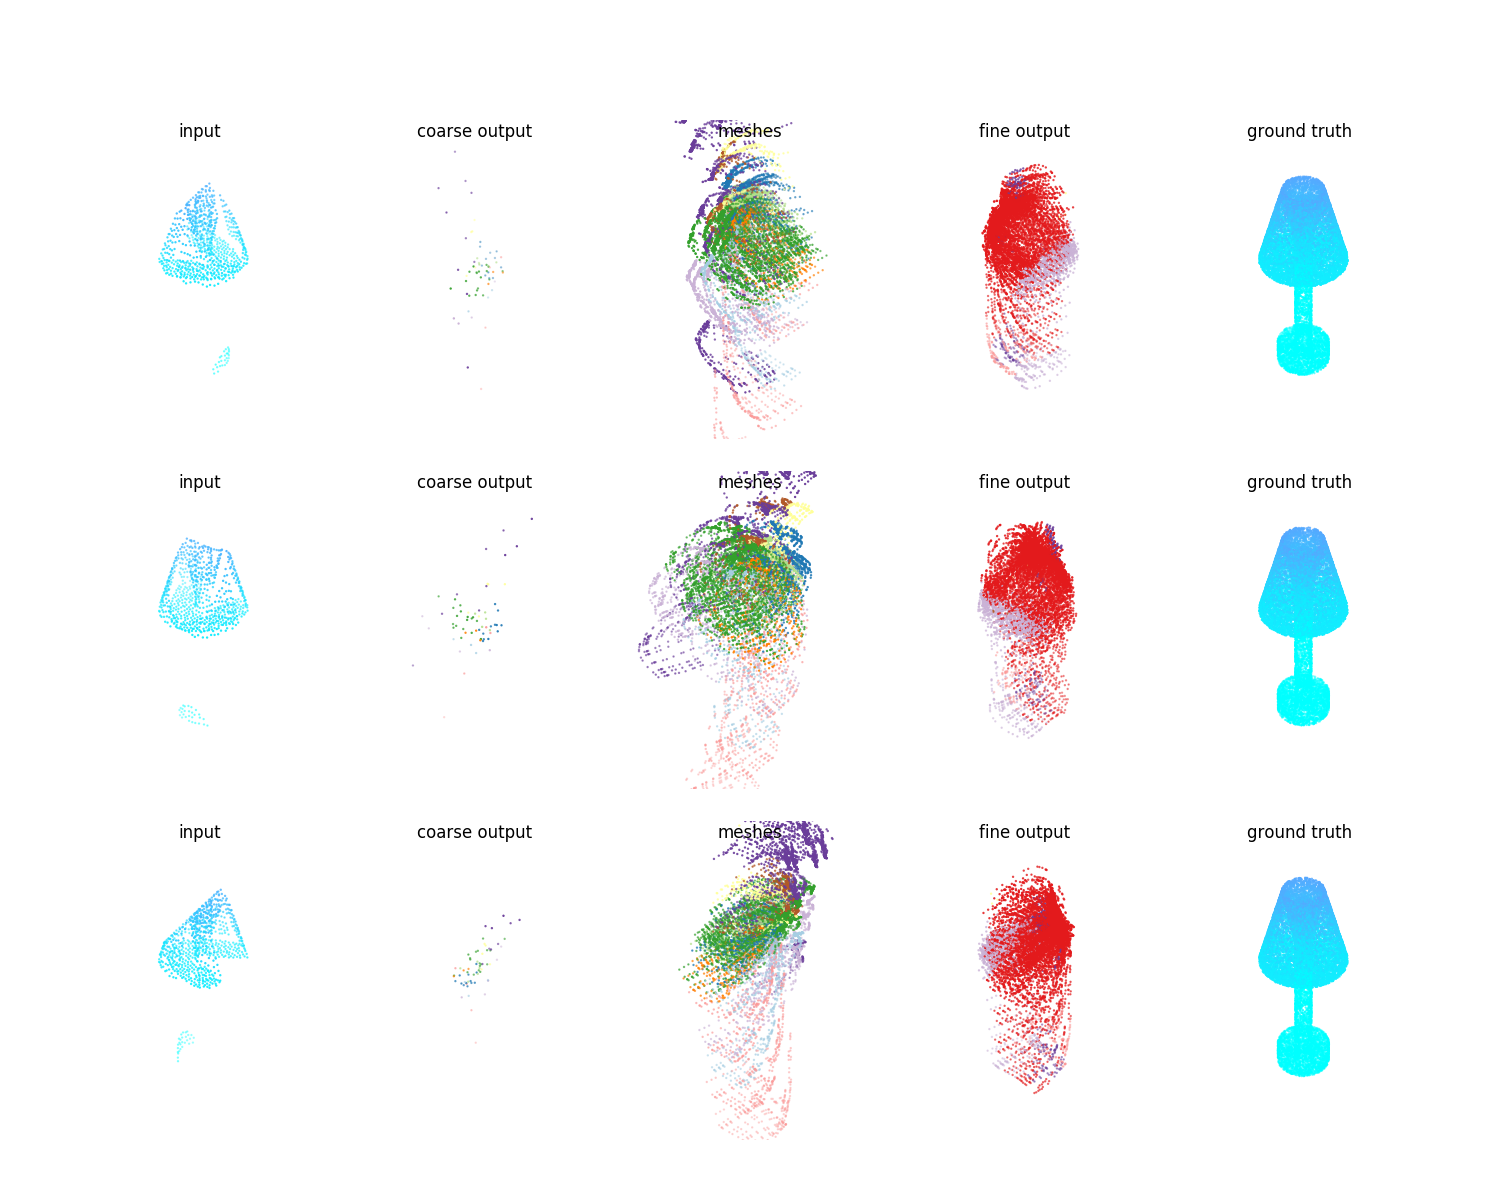
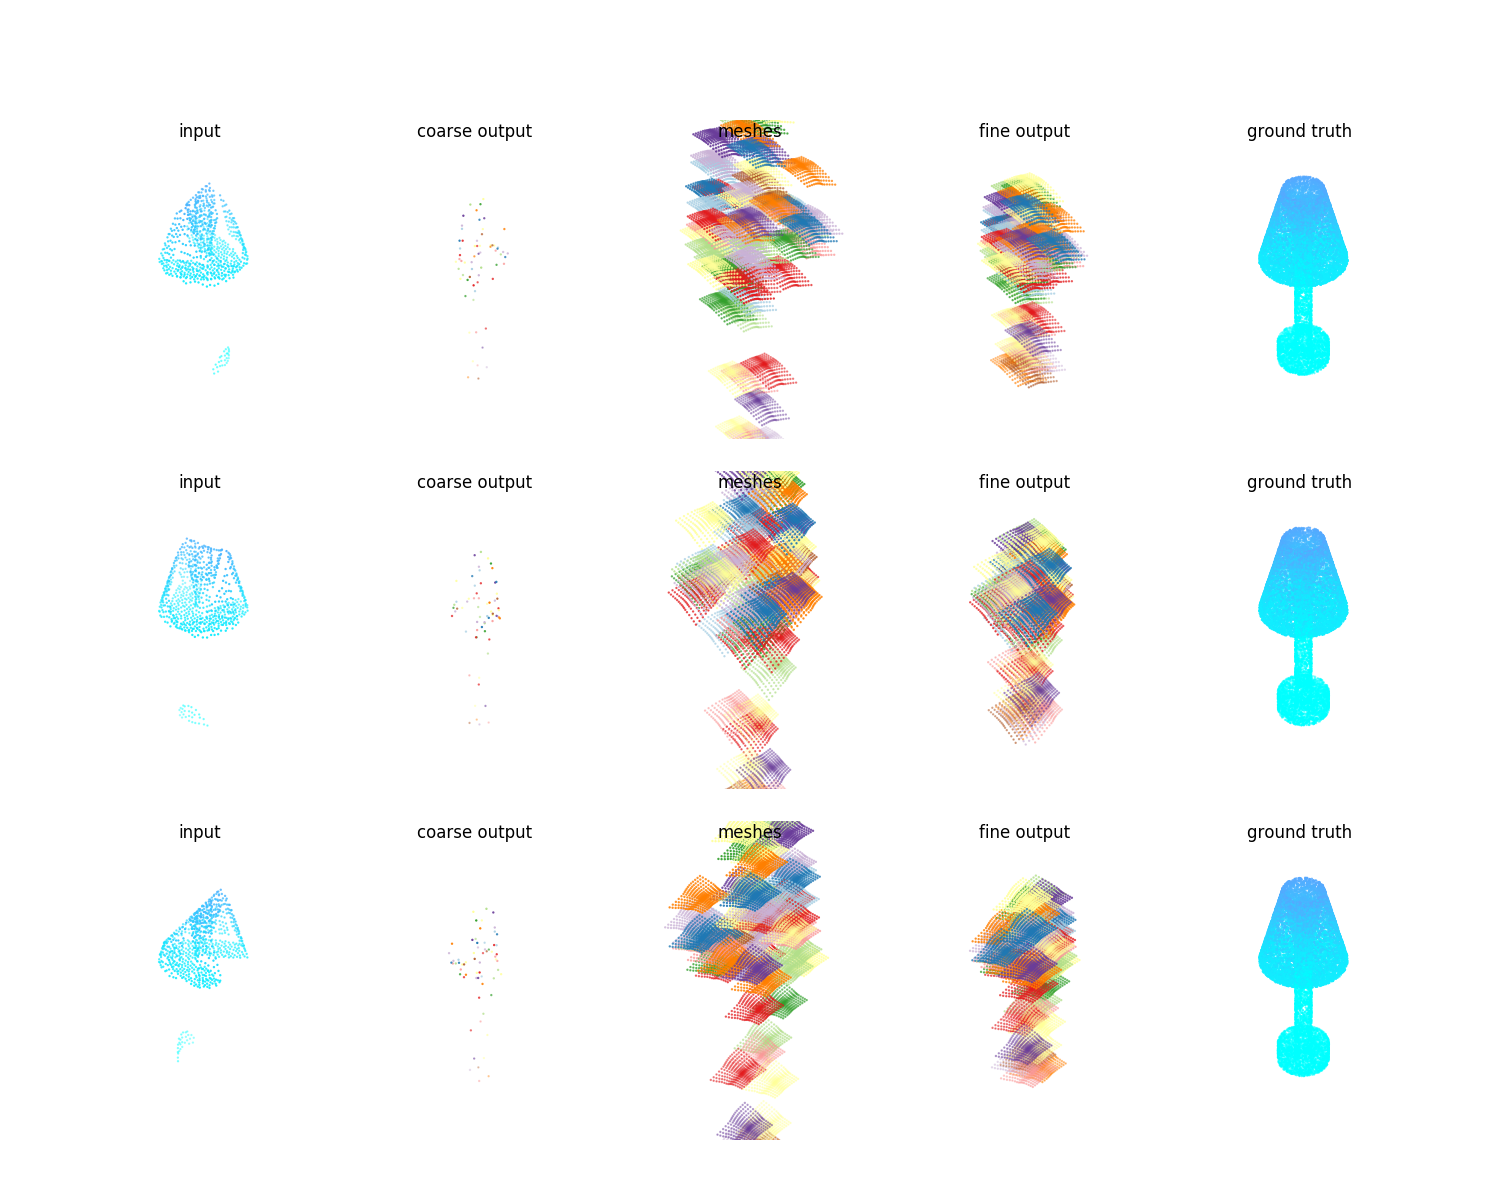
add plots

diff --git a/models/pcn_reg.py b/models/pcn_reg.py
@@ -40,7 +40,7 @@ class Model:
 
         with tf.variable_scope('folding', reuse=tf.AUTO_REUSE):
             # grid = tf.meshgrid(tf.linspace(-self.grid_scale, self.grid_scale, self.grid_size), tf.linspace(-self.grid_scale, self.grid_scale, self.grid_size))
-            grid = tf.meshgrid(tf.sin(tf.linspace(-self.grid_scale, self.grid_scale, self.grid_size)/self.grid_scale*4)*tf.linspace(0.1, 1.0, self.grid_size), tf.cos(tf.linspace(-self.grid_scale, self.grid_scale, self.grid_size)/self.grid_scale*4.0)*tf.linspace(0.1, 1.0, self.grid_size))
+            grid = [tf.sin(tf.linspace(-self.grid_scale, self.grid_scale, self.grid_size**2)/self.grid_scale*2*3.14)*tf.linspace(0, 0.05, self.grid_size), tf.cos(tf.linspace(-self.grid_scale, self.grid_scale, self.grid_size**2)/self.grid_scale*2*3.14)*tf.linspace(0, 0.05, self.grid_size)]
             grid = tf.expand_dims(tf.reshape(tf.stack(grid, axis=2), [-1, 2]), 0)
             grid_feat = tf.tile(grid, [features.shape[0], self.num_coarse, 1])
 
